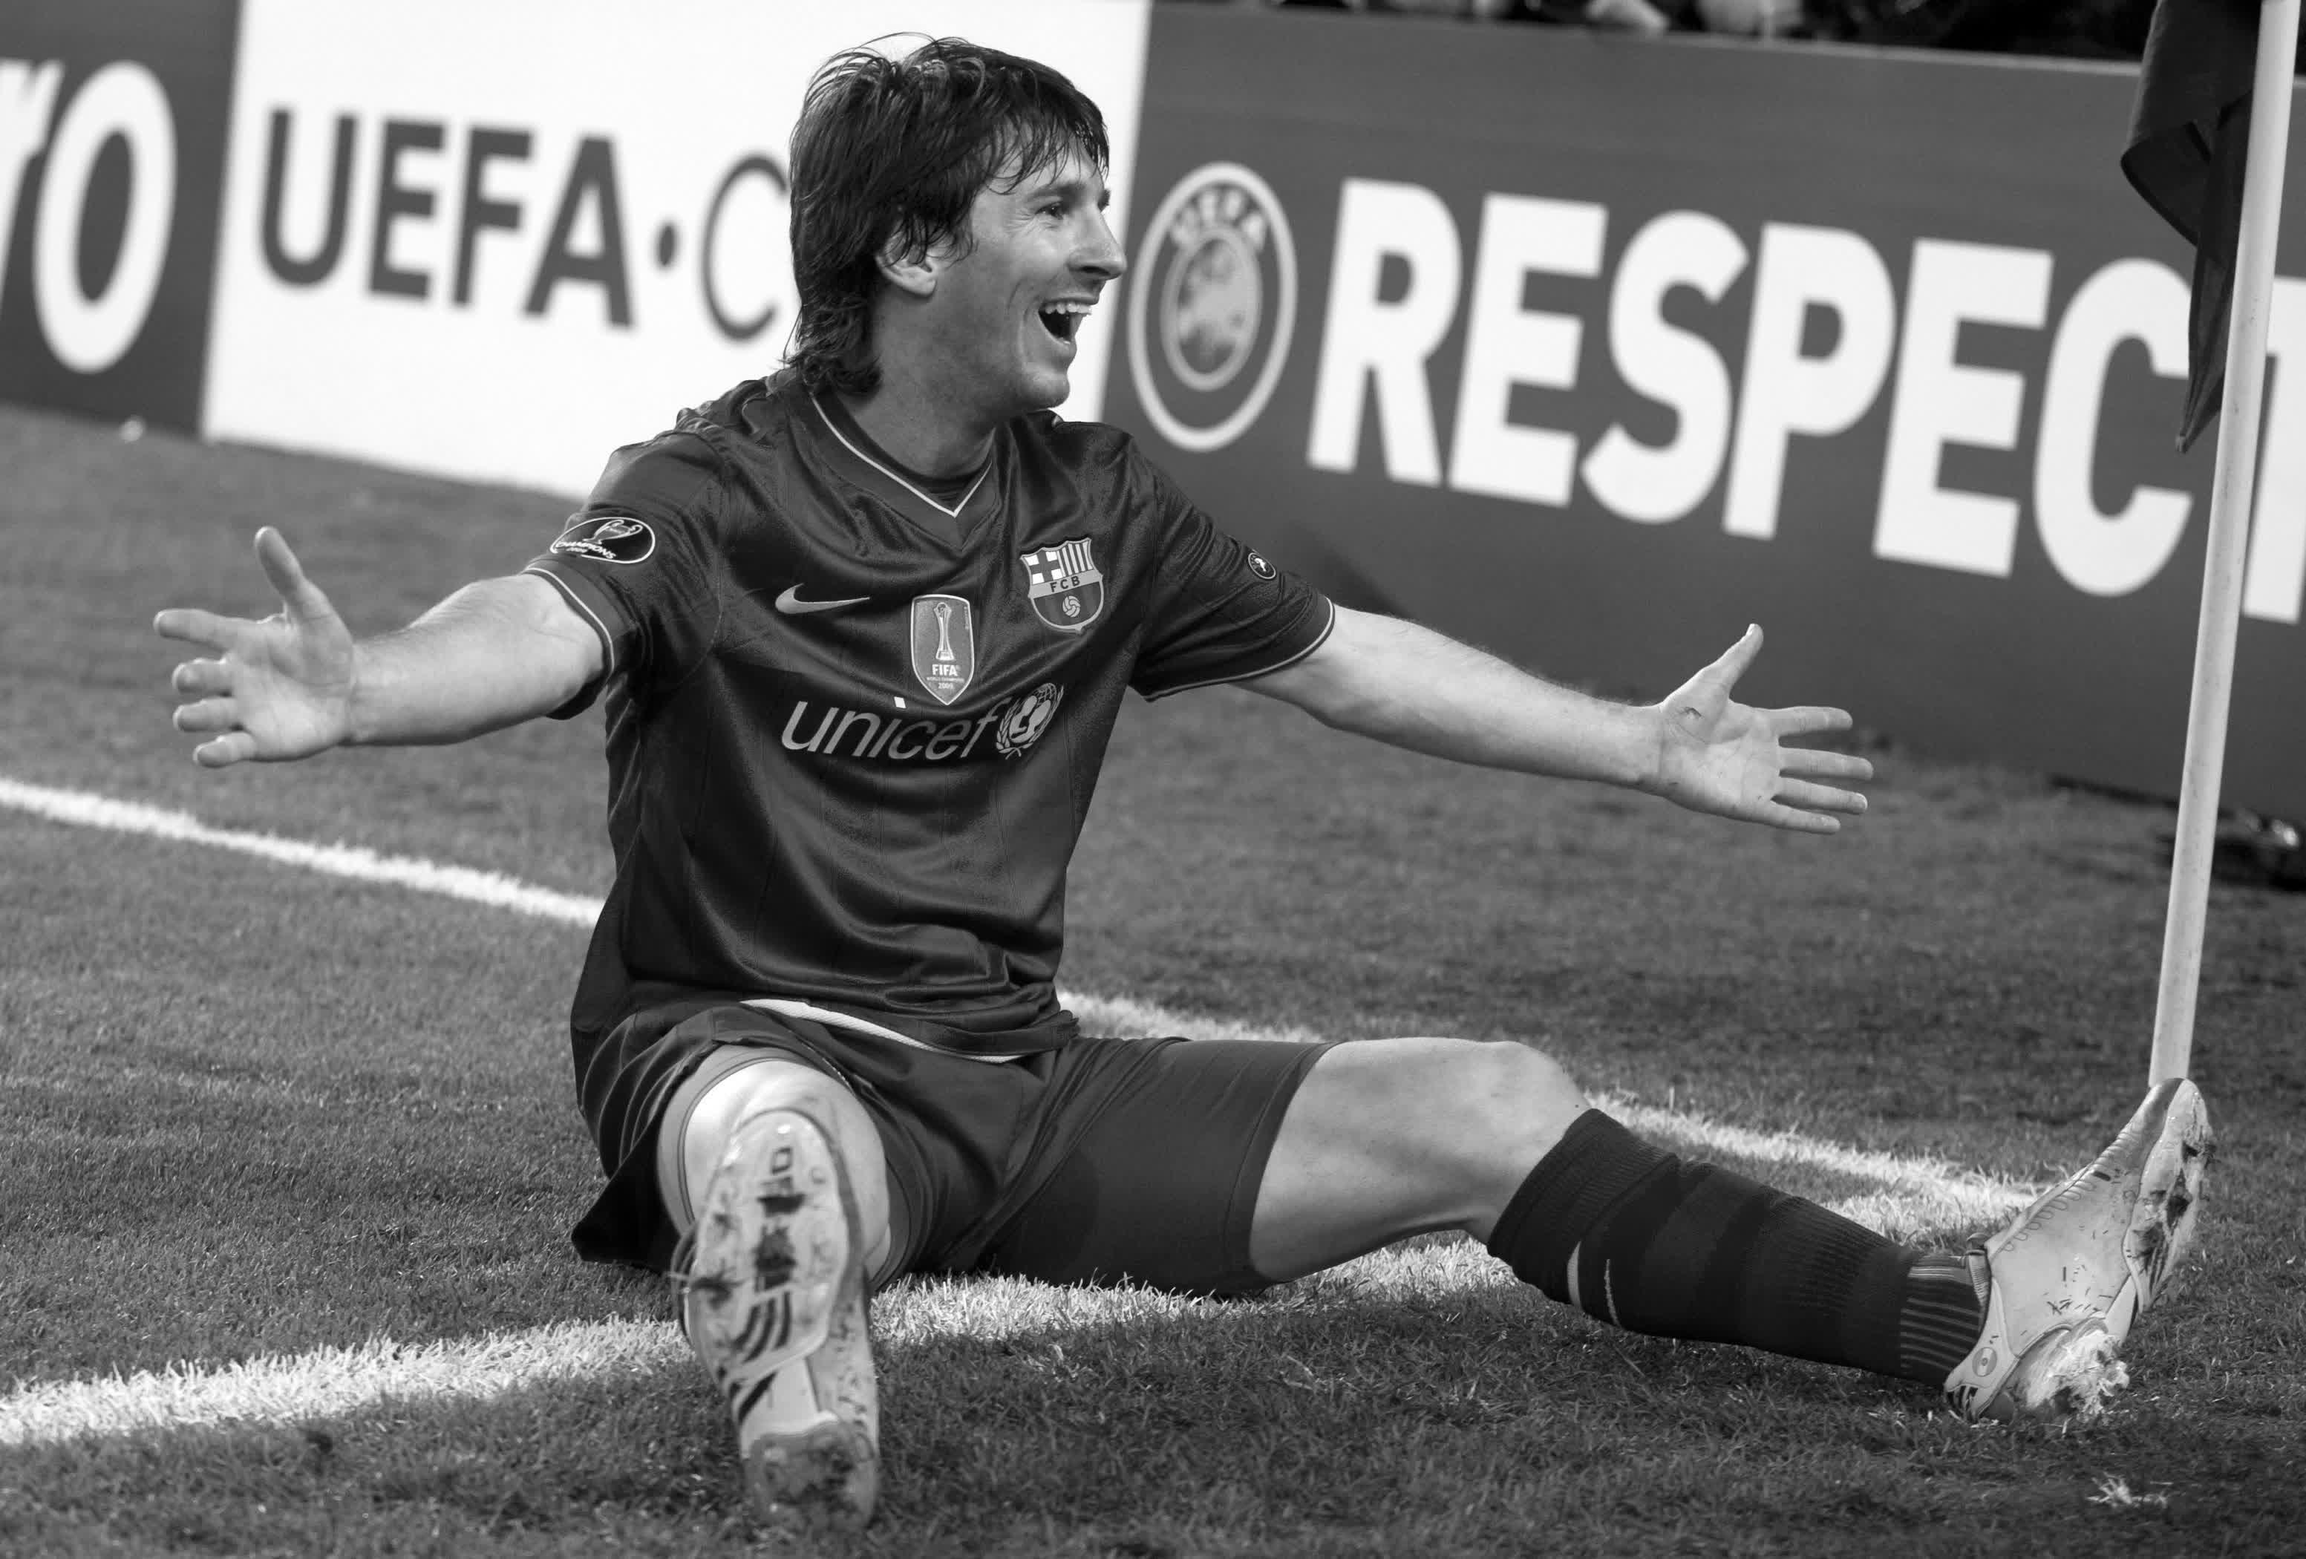
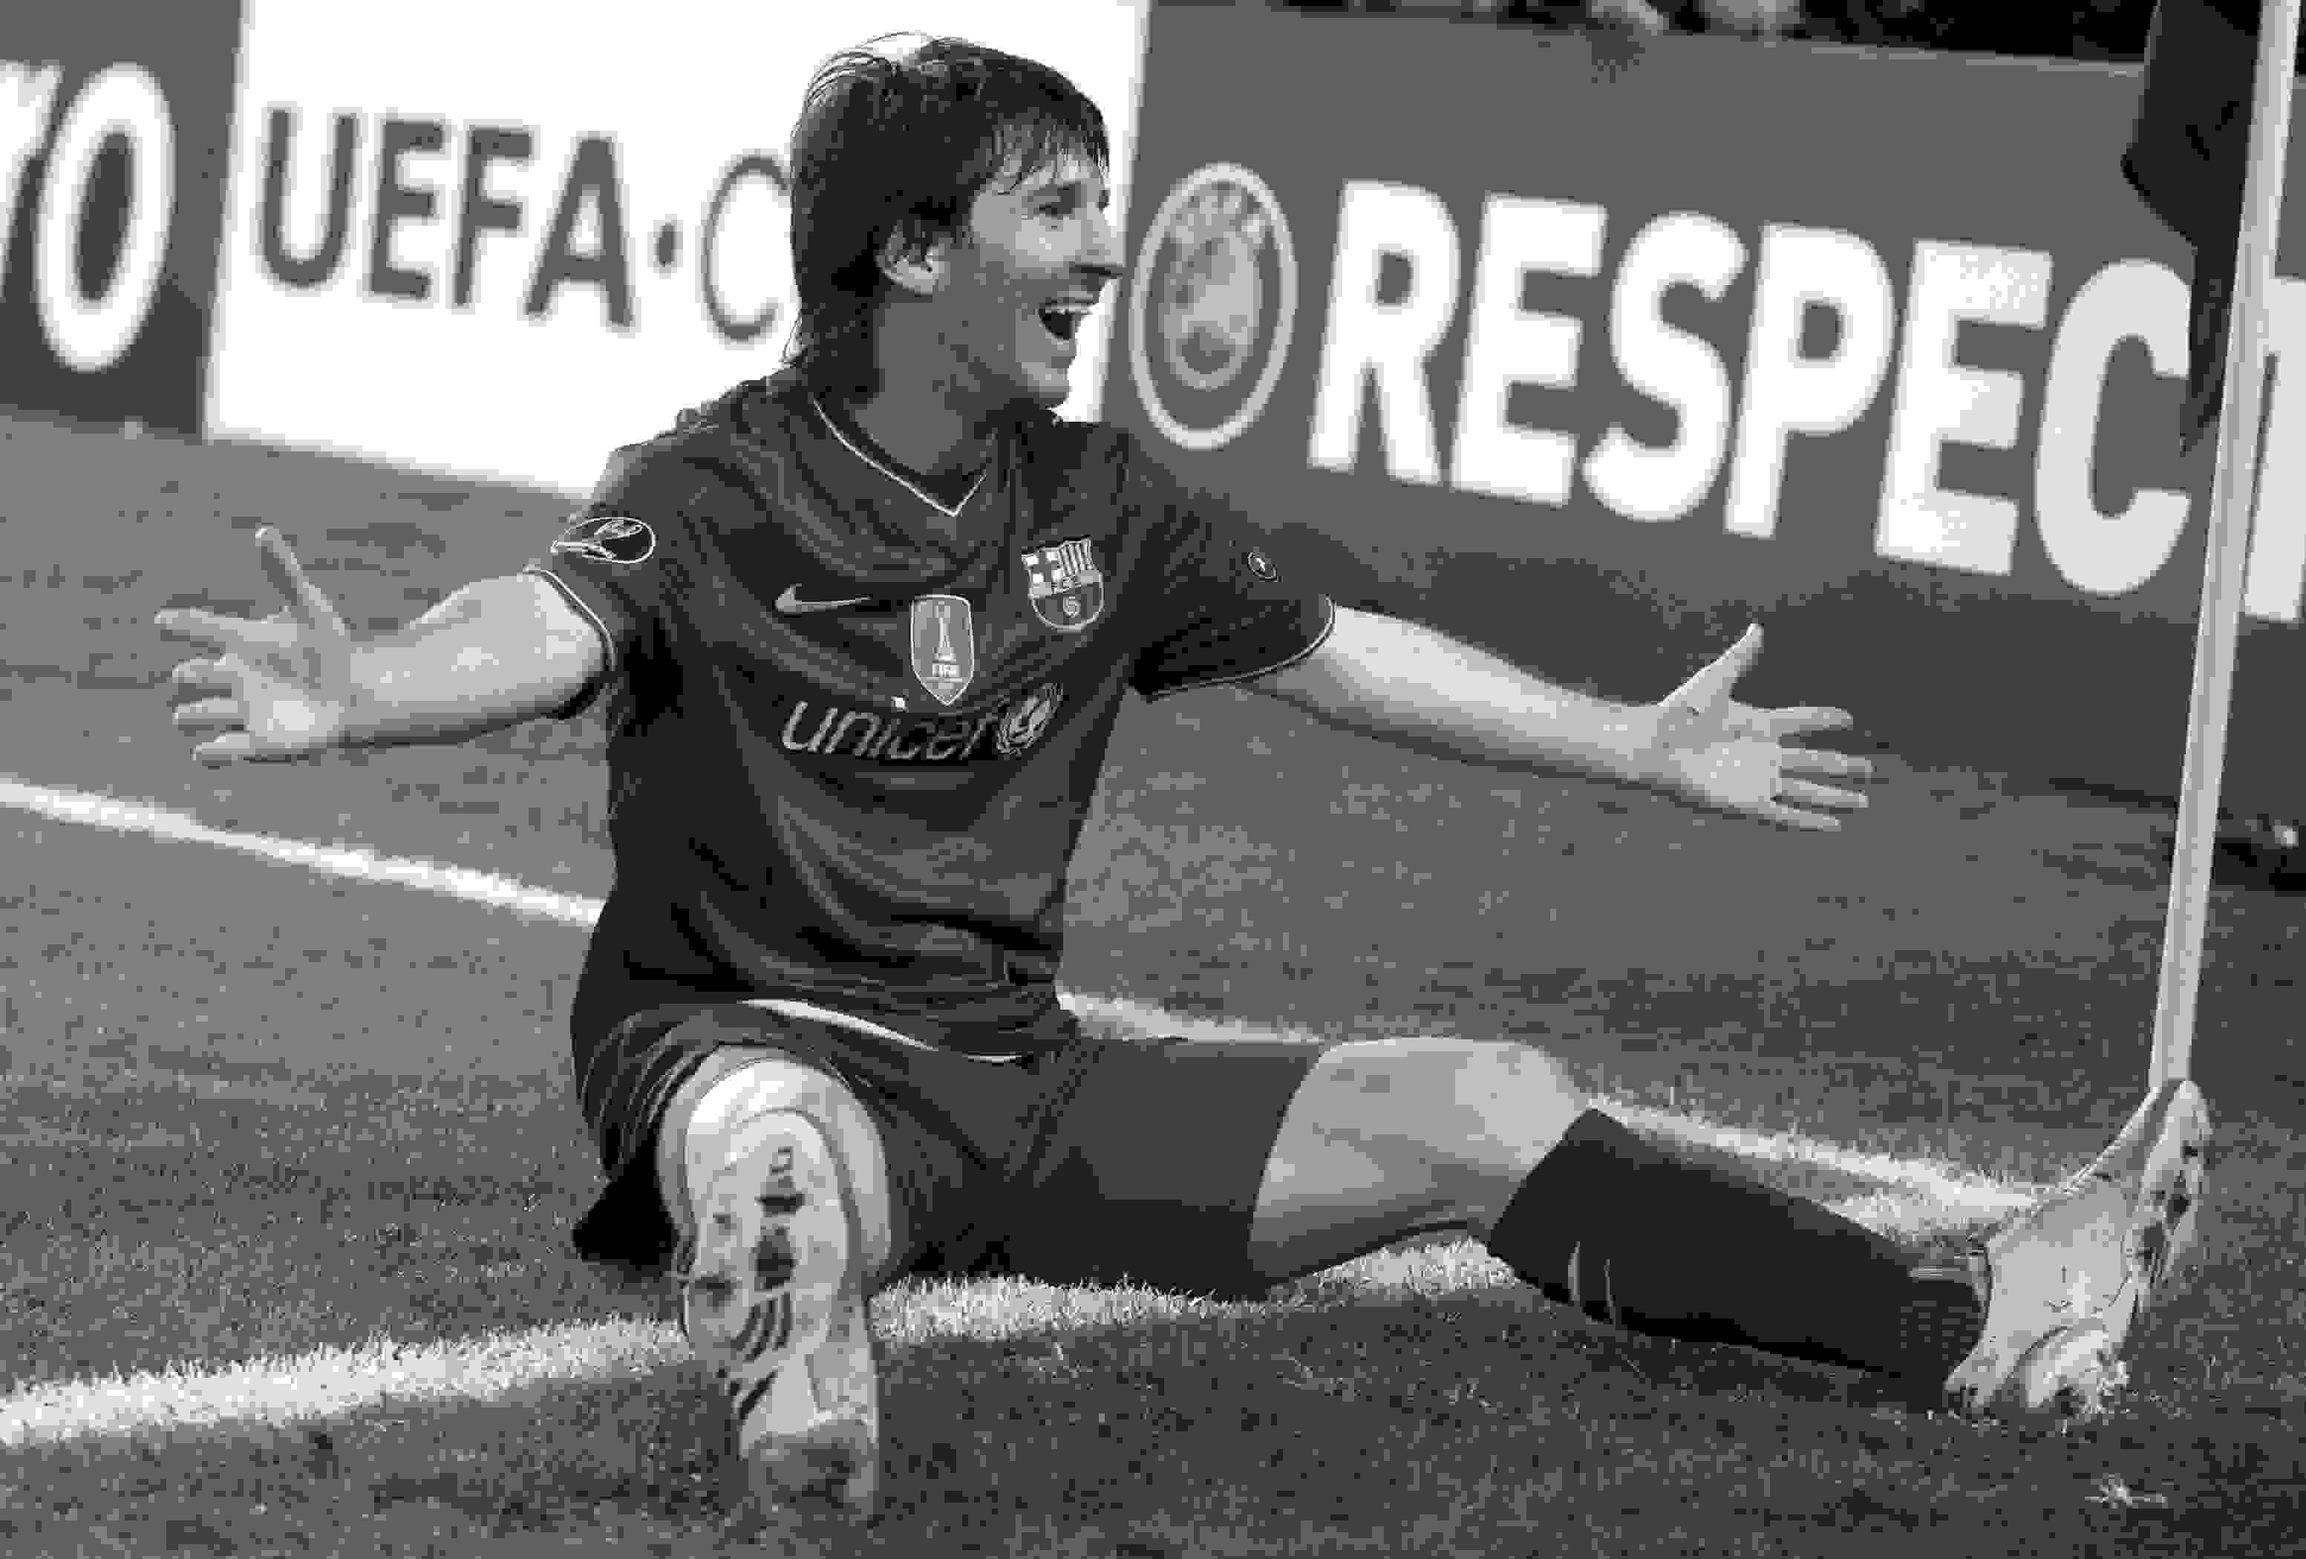
task 6 left

diff --git a/rgb_yuv.py b/rgb_yuv.py
@@ -1,7 +1,7 @@
 import numpy as np
 import ffmpeg
 import cv2
-import imageio as iio
+
 
 class Practice1:
     def __init__(self):
@@ -28,41 +28,70 @@ class Practice1:
                 self.resize_img(image_name)
             elif exercise == '3':
                 print('Serpentine scan\n')
+                opt = input('Press 1 for scanning a single block, 0 for the whole image\n')
                 filepath = 'barça.jpg'
                 w_size = 8
                 # The width and height of this image are multiples of 8,
                 # which will make the scanning easier
                 img = cv2.imread(filepath)
-                width = img.shape[0]
-                height = img.shape[1]
+                width = img.shape[1]
+                height = img.shape[0]
                 yuv_img = cv2.cvtColor(img, cv2.COLOR_BGR2YUV)
-                y_values = yuv_img[:, :, 0]
-                for r in range(0, height-w_size, w_size):
-                    for c in range(0, width-w_size, w_size):
-                        cur_window = y_values[r:r+w_size, c:c+w_size]
-                        cur_window = np.array(cur_window).flatten()
-                        self.serpentine(cur_window)
-                        print(r, c)
+                y_values = yuv_img[:, :, 0]     # We will scan the Y values
+
+                if opt == '0':
+                    count = 1
+                    for r in range(0, height, w_size):
+                        for c in range(0, width, w_size):
+                            cur_window = y_values[r:r+w_size, c:c+w_size]
+                            cur_window = np.array(cur_window).flatten()
+                            print('Block ', count)
+                            self.serpentine(cur_window)
+                            count += 1
+                elif opt == '1':
+                    print('Enter the bottom-left pixel coordinates\nMax row:', height-w_size,
+                          'Max column:', width-w_size)
+                    ver = int(input('Row: '))
+                    hor = int(input('Column: '))
+                    cur_window = y_values[ver:ver + w_size, hor:hor + w_size]
+                    cur_window = np.array(cur_window).flatten()
+                    self.serpentine(cur_window)
+                else:
+                    print('Invalid option')
+
+            elif exercise == '4':
+                image_name = 'messi.jpg'
+                print('Compressed b/w', image_name, '\n')
+                self.compress_bw(image_name)
+
+            elif exercise == '5':
+                print('Run-length encoding')
+                bit_str = input('Enter a string of bits: ')
+                self.run_length(bit_str)
+
             elif exercise.upper() == 'EXIT':
                 print('See you soon!')
                 return
             else:
                 print('Invalid input, please try again.')
 
-    def rgb_yuv(self, rgb):
+    @staticmethod
+    def rgb_yuv(rgb):
         matrix = [[0.299, 0.587, 0.114], [-0.14713, -0.28886, 0.436], [0.615, -0.51499, -0.10001]]
         yuv = np.matmul(matrix, rgb)
         print('YUV values: ', yuv)
         return yuv
     # Reference: https://www.cs.sfu.ca/mmbook/programming_assignments/additional_notes/rgb_yuv_note/RGB-YUV.pdf
 
-    def yuv_rgb(self, yuv):
+    @staticmethod
+    def yuv_rgb(yuv):
         matrix = [[1.0, 0.0, 1.13983], [1.0, -0.39465, -0.58060], [1.0, 2.03211, 0.0]]
         rgb = np.matmul(matrix, yuv)
         print('RGB values: ', rgb)
         return rgb
 
-    def resize_img(self, img):
+    @staticmethod
+    def resize_img(img):
         output_name = 'output_resized_messi.jpg'
         (
             ffmpeg
@@ -74,29 +103,56 @@ class Practice1:
         print('Resizing completed. Open ', output_name, 'to see results.')
         return
 
-    def serpentine(self, block):     # Expected 8x8 block
+    @staticmethod
+    def serpentine(block):     # Expected 8x8 block
+        print('Original block:', block)
         scan = [1, 2, 9, 17, 10, 3, 4, 11, 18, 25, 33, 26, 19, 12, 5, 6, 13, 20, 27, 34, 41, 49, 42, 35, 28, 21, 14,
                 7, 8, 15, 22, 29, 36, 43, 50, 57, 58, 51, 44, 37, 30, 23, 16, 24, 31, 38, 45, 52, 59, 60, 53, 46, 39,
                 32, 40, 47, 54, 61, 62, 55, 48, 56, 63, 64]     # Coefficients order
-        res_block = block
+
+        scanned_block = [[0 for _ in range(8)] for _ in range(8)]
+        i = 0
+        j = 0
         for el in scan:
-            print(block[el-1])
+            scanned_block[j][i] = block[el-1]
+            if i == 7:
+                i = 0
+                j += 1
+            else:
+                i += 1
+        print('Scanned block: ', scanned_block)
+
         return
 
-    def compress_bw(self, img):
+    @staticmethod
+    def compress_bw(img):
         (
             ffmpeg
             .input(img)
-            .output('output_compressed_messi.jpg', **{'qscale:v=100'})
-            .run()
-        )
-        (
-            ffmpeg
-            .input('output_compressed_messi.jpg')
             .filter('format', 'gray')
-            .output('output_compressed_bw_messi.jpg')
+            .output('output_bw_messi.jpg')
             .run()
         )
+        img = cv2.imread('output_bw_messi.jpg')
+        compression_params = [cv2.IMWRITE_JPEG_QUALITY, 1]
+        cv2.imwrite('output_compressed_bw_messi.jpg', img, compression_params)
+        # We can see how the grayscale image was heavily compressed,
+        # and the image quality is much worse. Pixels in the same area
+        # have now the same values, and it looks really unnatural
+        return
+
+    @staticmethod
+    def run_length(bits):
+        encoded = []
+        count = 1
+        for i in range(1, len(bits)):
+            if bits[i] == bits[i - 1]:
+                count += 1
+            else:
+                encoded.append((bits[i - 1], count))
+                count = 1
+        encoded.append((bits[-1], count))
+        print(encoded)
         return
 
 
@@ -105,7 +161,3 @@ if __name__ == '__main__':
     practice = Practice1()
 
     practice.launch()
-
-    # Task 4
-    # image_name = 'messi.jpg'
-    # compress_bw(image_name)
